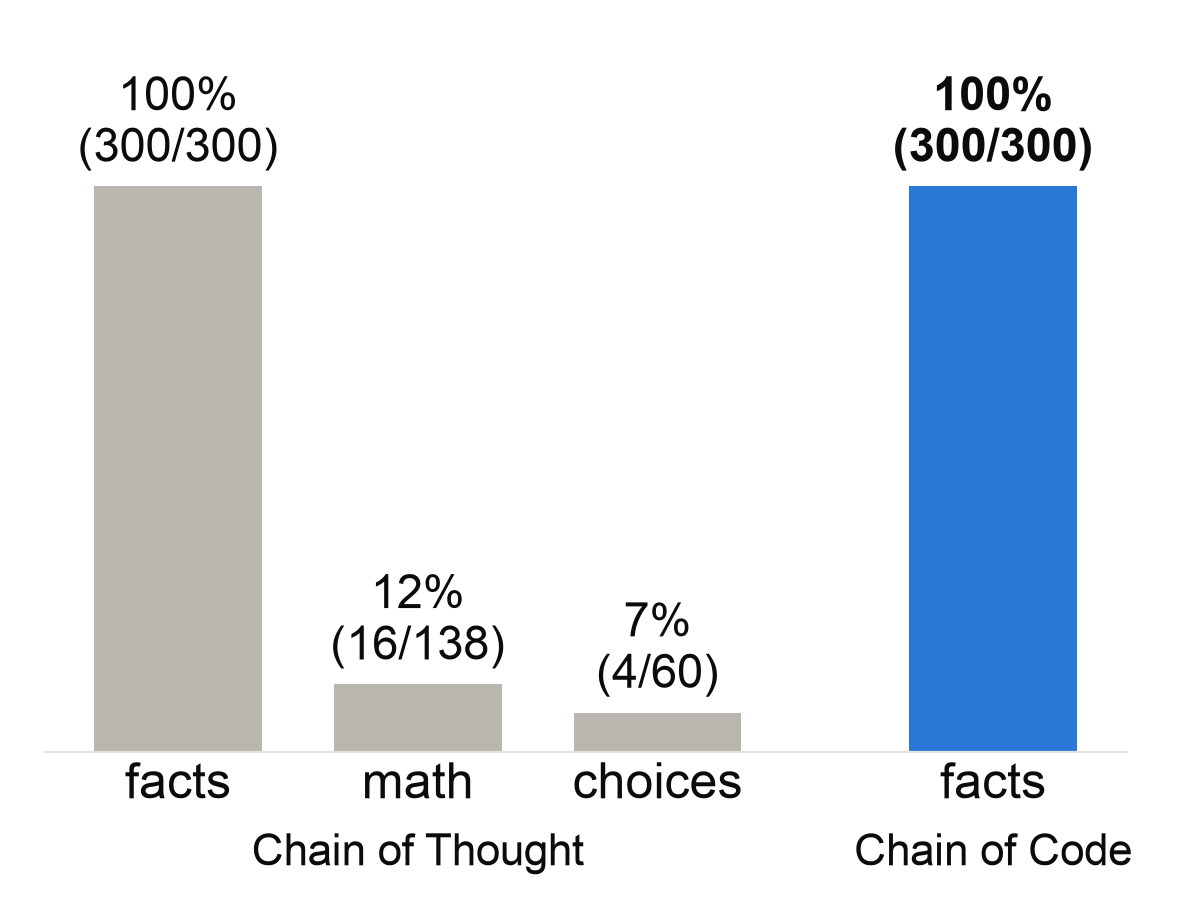
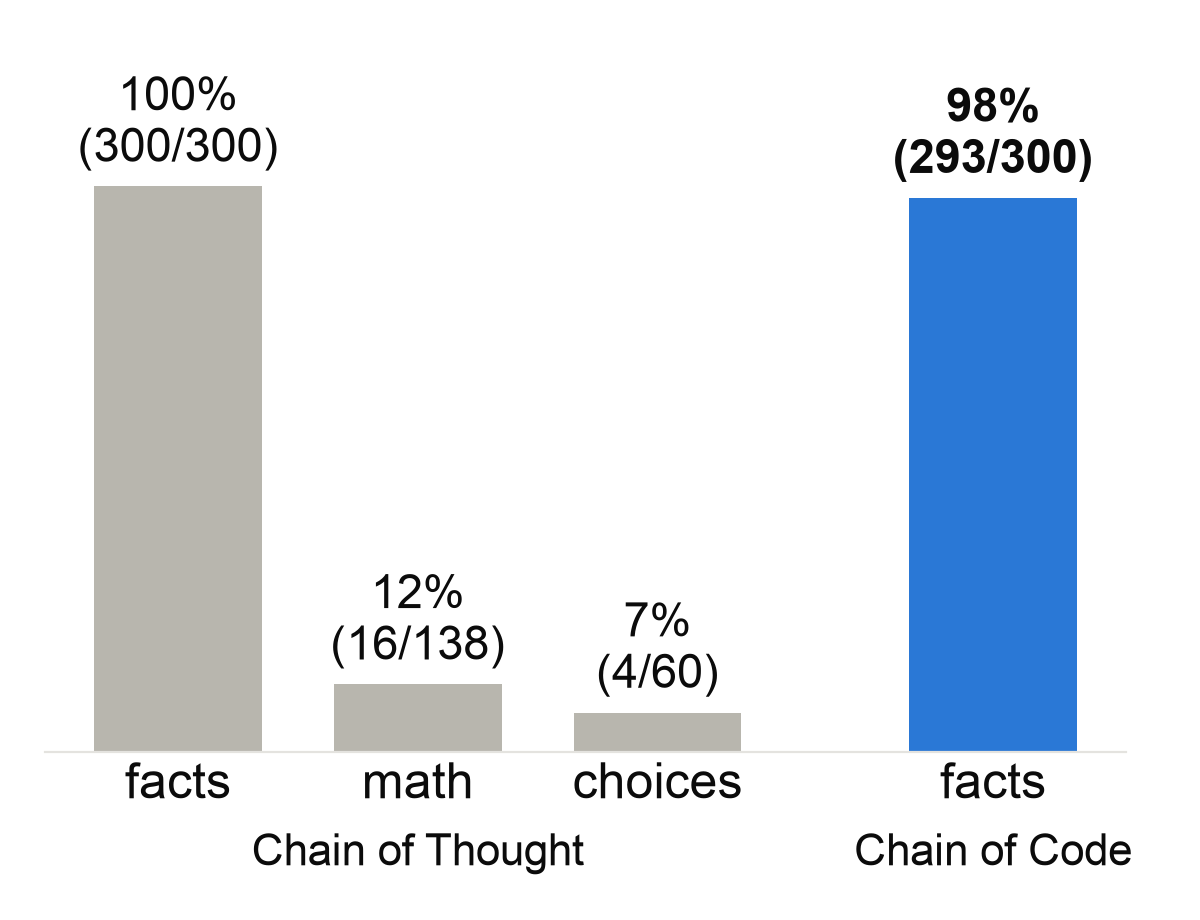
LMulator example: flying animals instead of Beatles birthdays; rerun 30-date tests
Chain of Code now 29/30 (293/300 birthdays); demo charts and Summary slide updated.

Changed region(s): [[0.74, 0.0609, 0.925, 0.213]]

diff --git a/docs/slides.html b/docs/slides.html
@@ -360,7 +360,7 @@ Dec 2023</p>
 <ul>
 <li>Chain of Code: the LLM writes code; Python runs what it can, the LLM emulates the rest</li>
 <li>Paper: 84% on BIG-Bench Hard, vs.&nbsp;72% for Chain of Thought</li>
-<li>Our demo (7B model): 100% vs.&nbsp;3-10%, with the same facts, but Python doing the math</li>
+<li>Our demo (7B model): 97% vs.&nbsp;3-10%, with the same facts, but Python doing the math</li>
 <li>Limitations:
 <ul>
 <li>uses more tokens</li>

diff --git a/coc.py b/coc.py
@@ -23,14 +23,16 @@ SIMPLE_TYPES = (bool, int, float, str, list, tuple, dict, set, date, type(None))
 
 RED, PURPLE, RESET = "\033[31m", "\033[35m", "\033[0m"
 
-# Shows the LM the trace format. Deliberately about people other than the
-# demo's ten scientists, so it doesn't give away any of the answer.
-LMULATOR_EXAMPLES = """Q: Which Beatle was born first?
-from datetime import date
-birthdays = get_beatles_birthdays()
-state: {}
-line: birthdays = get_beatles_birthdays()
-delta state: {'birthdays': [('John Lennon', date(1940, 10, 9)), ('Paul McCartney', date(1942, 6, 18)), ('George Harrison', date(1943, 2, 25)), ('Ringo Starr', date(1940, 7, 7))]}
+# Shows the LM the trace format. Deliberately not about birthdays or dates,
+# so the LM gets no help with the demo's question from the examples.
+LMULATOR_EXAMPLES = """Q: How many of these animals can fly: penguin, eagle, bat, ostrich?
+animals = ['penguin', 'eagle', 'bat', 'ostrich']
+num_flying = 0
+for animal in animals:
+    flies = can_fly(animal)
+state: {'animals': ['penguin', 'eagle', 'bat', 'ostrich'], 'num_flying': 1, 'animal': 'bat'}
+line:     flies = can_fly(animal)
+delta state: {'flies': True}
 
 Q: What are the capitals of France and Japan?
 capitals = {}
